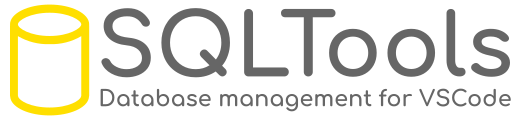
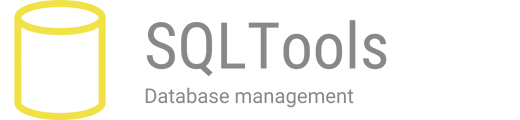
Update README and docs (#1020)
* First pass of README updates

* Add "About GJS" section

* New icons for CockroachDB

* blue->yellow for doc favicon and ToC header icon

* Correct docs icon for community Redshift driver

* Document how to update documentation

* Add comment to docs home page souirce about keeping it in sync with README.md

* Add doc note about syncing home.mdx with README.md

* :lipstick:

* New header logo for doc homepage

* Switch header logo from SVG to PNG

* Feedback from George

* Use correct icon for extension

diff --git a/docs/src/config.ts b/docs/src/config.ts
@@ -6,12 +6,11 @@ export const SITE = {
 
 export const OPEN_GRAPH = {
 	image: {
-		src: 'https://raw.githubusercontent.com/mtxr/vscode-sqltools/master/static/header-hero.svg?sanitize=true',
+		src: 'https://raw.githubusercontent.com/mtxr/vscode-sqltools/master/static/header-hero.png',
 		alt:
-			'astro logo on a starry expanse of space,' +
-			' with a purple saturn-like planet floating in the right foreground',
+			'SQLTools database management',
 	},
-	twitter: 'astrodotbuild',
+	twitter: 'GJSoftware',
 };
 
 // This is the type of the frontmatter you put in the docs markdown files.

diff --git a/README.md b/README.md
@@ -1,6 +1,6 @@
 <!-- HEADER START -->
 <p style='text-align: center;'>
-  <img src="https://raw.githubusercontent.com/mtxr/vscode-sqltools/dev/static/header-hero.svg?sanitize=true" />
+  <img src="https://raw.githubusercontent.com/mtxr/vscode-sqltools/dev/static/header-hero.png" />
 </p>
 
 <hr />
@@ -8,31 +8,37 @@
 
 <p style='text-align: center;'>
 
-[![Docs](https://img.shields.io/badge/docs-here-blueviolet?style=for-the-badge)](https://vscode-sqltools.mteixeira.dev)
-[![ko-fi](https://user-images.githubusercontent.com/707561/112481485-d0d09800-8d55-11eb-8bfd-bb70c9984617.png)](https://ko-fi.com/Y8Y487W9)
-[![Patreon](https://img.shields.io/badge/patreon-support-blue.svg?style=for-the-badge)](https://www.patreon.com/mteixeira)
-[![Paypal Donate](https://img.shields.io/badge/paypal-donate-blue.svg?style=for-the-badge)](https://www.paypal.com/cgi-bin/webscr?cmd=_s-xclick&hosted_button_id=RSMB6DGK238V8)
-[![VSCode.pro](https://img.shields.io/badge/Supported%20by-VSCode%20Power%20User%20Course%20%E2%86%92-gray.svg?colorA=655BE1&colorB=4F44D6&style=for-the-badge)](https://a.paddle.com/v2/click/16413/111711?link=1227)
 [![GitHub](https://img.shields.io/github/license/mtxr/vscode-sqltools?style=for-the-badge)](https://github.com/mtxr/vscode-sqltools/blob/dev/LICENSE.md)
 
 </p>
 
-Database management done right. Connection explorer, query runner, intellisense, bookmarks, query history. Feel like a database hero!
+Welcome to Database Management done right. 
+SQLTools provides connections to many of the most commonly used databases, making it easier to work with your data. With this tool, developers will save (a lot of) time, increase productivity and feel like a database hero ✌
 
-You can read the entire docs in [https://vscode-sqltools.mteixeira.dev/](https://vscode-sqltools.mteixeira.dev/)
+SQLTools is an open-source project maintained by [Matheus Teixeira](https://mteixeira.dev/) and [George James Software](https://georgejames.com), alongside contributions from our brilliant community of users. 
+
+If you like using this tool please [leave us a review](https://marketplace.visualstudio.com/items?itemName=mtxr.sqltools&ssr=false#review-details).
 
 ## Features
 
-Some features provided by SQLTools:
+Connects to MySQL, PostgreSQL, Microsoft SQL Server and many more...
 
-- Beautifier/Formatter
-- Query runner, history, and bookmarks
+- Beautifier and formatter for SQL code
+- Query runner, history and bookmarks
 - Connection explorer
-- Query generators (INSERT only)
+- Generator for INSERT queries
+- Pluggable driver architecture
 
-Check out all the features and their documentation [here](http://vscode-sqltools.mteixeira.dev/#features).
+Find out more in the documentation [here](http://vscode-sqltools.mteixeira.dev/#features).
 
-## Supported Drivers
+## Supported Databases
+To use SQLTools you will also need to install the appropriate driver extension for your database.
+
+If the driver you want is not available, you can use our handy [new drivers guide](https://vscode-sqltools.mteixeira.dev/en/contributing/support-new-drivers/) to write it yourself (and help our community in the process) or submit feedback via  [GitHub](https://github.com/mtxr/vscode-sqltools/issues).
+
+If you need a driver sooner, get in touch with the maintainers directly – we might be able to help you out.
+
+Psst… we’re always on the lookout for maintainers for the official drivers, so let us know if this is something you’re interested in!
 
 **Official Drivers**
 
@@ -44,8 +50,6 @@ Check out all the features and their documentation [here](http://vscode-sqltools
 | ![MySQL](https://raw.githubusercontent.com/mtxr/vscode-sqltools/dev/packages/driver.mysql/icons/default.png)                 | MySQL                      | [Link](https://marketplace.visualstudio.com/items?itemName=mtxr.sqltools-driver-mysql)  | [packages/driver.mysql](https://github.com/mtxr/vscode-sqltools/tree/dev/packages/driver.mysql)   |
 | ![PostgreSQL](https://raw.githubusercontent.com/mtxr/vscode-sqltools/dev/packages/driver.pg/icons/pg/default.png)            | PostgreSQL                 | [Link](https://marketplace.visualstudio.com/items?itemName=mtxr.sqltools-driver-pg)     | [packages/driver.pg](https://github.com/mtxr/vscode-sqltools/tree/dev/packages/driver.pg)         |
 | ![SQLite](https://raw.githubusercontent.com/mtxr/vscode-sqltools/dev/packages/driver.sqlite/icons/default.png)               | SQLite                     | [Link](https://marketplace.visualstudio.com/items?itemName=mtxr.sqltools-driver-sqlite) | [packages/driver.sqlite](https://github.com/mtxr/vscode-sqltools/tree/dev/packages/driver.sqlite) |
-
-> I'm looking for maintainers for each driver, if you are interested in maintaining/testing any driver, please contact me. https://mteixeira.dev
 
 **Community Drivers:**
 
@@ -60,42 +64,22 @@ Check out all the features and their documentation [here](http://vscode-sqltools
 | ![Teradata](https://raw.githubusercontent.com/scriptpup/sqltools-teradata-driver/master/icons/default.png)                                | Teradata             | [Link](https://marketplace.visualstudio.com/items?itemName=scriptpup.sqltools-teradata-driver)                         | [@ScriptPup](https://github.com/ScriptPup) <br/> [ScriptPup/sqltools-teradata-driver](https://github.com/ScriptPup/sqltools-teradata-driver)                                                           |
 | ![Trino](https://raw.githubusercontent.com/regadas/sqltools-trino-driver/master/icons/default.png)                                        | Trino                | [Link](https://marketplace.visualstudio.com/items?itemName=regadas.sqltools-trino-driver)                              | [@regadas](https://github.com/regadas) <br/> [regadas/sqltools-trino-driver](https://github.com/regadas/sqltools-trino-driver)                                                                         |
 
-Do you want to add a new driver? We have a tool to help you. See [support new drivers](https://vscode-sqltools.mteixeira.dev/contributing/support-new-drivers) guide.
-
-<!-- **Drivers supported till v0.21.9:**
-
-| Driver    | Maintainer                                       |
-| --------- | ------------------------------------------------ |
-| Cassandra | [@EpicEric](https://github.com/EpicEric)         |
-| IBM DB2   | [@snyang](https://github.com/snyang)             |
-| OracleDB  | [@mickeypearce](https://github.com/mickeypearce) |
-
-> These drivers are being migrated to be compatible with v0.22 or newer. If you need one of them, you need to install v0.21.9. -->
-
-#### Know Driver Issues
-
-- Unable to connect with "Drivers XXXX is not installed"? Check [this issue](https://github.com/mtxr/vscode-sqltools/issues/590).
-
 ## Contributing
 
-Please read the contributing guide [here](https://vscode-sqltools.mteixeira.dev/contributing).
-
-Join all these amazing [contributors](https://github.com/mtxr/vscode-sqltools/graphs/contributors)❤ on this journey.
-
-## Donate and Support
-
-SQLTools was developed with ♥ to save us time during our programming journey.
-
-SQLTools will save you (for sure) a lot of time and help you to increase your productivity, so please consider a [donation](https://www.paypal.com/cgi-bin/webscr?cmd=_s-xclick&hosted_button_id=RSMB6DGK238V8) or become a [supporter](https://www.patreon.com/mteixeira) and help SQLTools become more awesome than ever.
-
-[![ko-fi](https://user-images.githubusercontent.com/707561/112481485-d0d09800-8d55-11eb-8bfd-bb70c9984617.png)](https://ko-fi.com/Y8Y487W9)
-[![Patreon](https://img.shields.io/badge/patreon-support-blue.svg?style=for-the-badge&logo=patreon)](https://www.patreon.com/mteixeira)
-[![Paypal Donate](https://img.shields.io/badge/paypal-donate-blue.svg?style=for-the-badge&logo=paypal)](https://www.paypal.com/cgi-bin/webscr?cmd=_s-xclick&hosted_button_id=RSMB6DGK238V8)
+We are grateful to our [contributors](https://github.com/mtxr/vscode-sqltools/graphs/contributors) for helping with this project ❤ If you would like to join them you’ll find everything you need to know about contributing [here](https://vscode-sqltools.mteixeira.dev/contributing).
 
 ## Changelog
 
-See changelog [here](https://vscode-sqltools.mteixeira.dev/changelog)
+See the changelog [here](https://vscode-sqltools.mteixeira.dev/changelog).
 
 ## Feedback
 
-Please provide feedback through the [GitHub Issue](https://github.com/mtxr/vscode-sqltools/issues) system.
+Our aim is to build a tool that is genuinely helpful for developers. Therefore we welcome any feedback or additional feature requests – please submit them through the [GitHub Issue](https://github.com/mtxr/vscode-sqltools/issues) system.
+
+If you need help sooner, get in touch with the maintainers directly – we might be able to help you out.
+
+## About George James Software
+
+George James Software has been providing innovative software solutions for over 35 years. We pride ourselves on the quality and maintainability of our code and we have built a number of tools to help developers achieve the same with their work. These are available as VS Code extensions [here](https://marketplace.visualstudio.com/publishers/georgejames).
+
+We also help other developers to build their own extensions. If there is a tool you need building please get in touch with us at [info@georgejames.com](mailto:info@georgejames.com).
